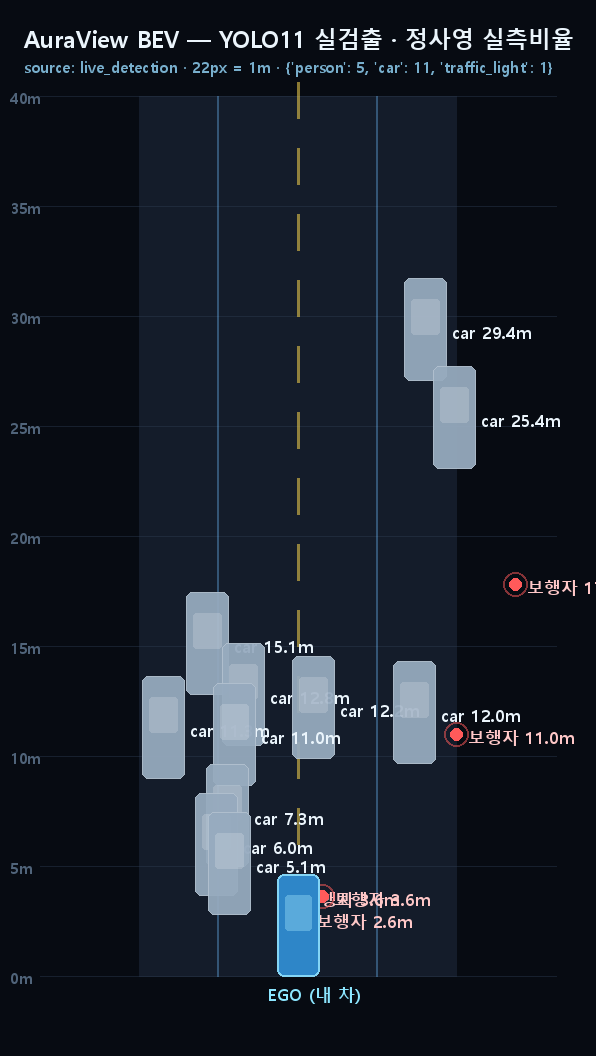
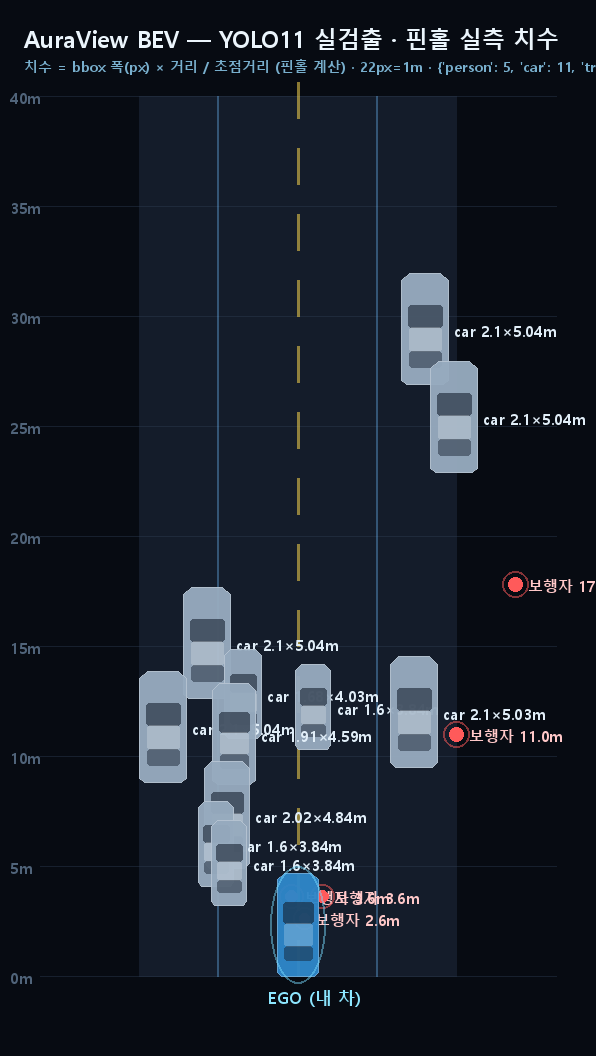
fix(bev): 실측 치수(핀홀 계산) + 차 실루엣 — '길쭉/고증' 지적 반영
사용자: 차가 너무 길쭉, 실측 계산 기반이냐, BEV답게.
→ 1) 실측 치수: 각 객체 폭 = bbox폭(px) × 거리 / 초점거리 (핀홀), 길이 = 폭×클래스비율
     서비스(detect_to_bev)가 width_m/length_m 반환, BEV 라벨에 '2.27×6.81m' 표기
   2) 차 실루엣: 알약 → 앞코+앞유리(어둡게)+지붕(밝게)+뒷유리 → 차로 읽힘
   3) 헤더에 측정식 명시 ('치수 = bbox폭 × 거리 / 초점거리')
이전 고정 클래스크기/단순 알약 → 측정 기반 + BEV 차 모양.

diff --git a/scripts/render_bev_shapes.py b/scripts/render_bev_shapes.py
@@ -45,19 +45,31 @@ for m in range(0, int(FWD), 3):
 d.line([(gx(-road_half), gy(0)), (gx(-road_half), gy(FWD))], fill=(110, 190, 255, 90), width=2)
 d.line([(gx(road_half), gy(0)), (gx(road_half), gy(FWD))], fill=(110, 190, 255, 90), width=2)
 
-SPEC = {
-    "car":        (1.9, 4.6, (150, 170, 190), "veh"),
-    "truck":      (2.6, 9.0, (110, 125, 145), "veh"),
-    "bus":        (2.6, 11.0, (200, 165, 80), "veh"),
-    "motorcycle": (0.8, 2.1, (255, 176, 32), "two"),
-    "bicycle":    (0.65, 1.8, (0, 224, 154), "two"),
-    "person":     (0.55, 0.55, (255, 90, 90), "ped"),
-}
+KIND = {"car": "veh", "truck": "veh", "bus": "veh",
+        "motorcycle": "two", "bicycle": "two", "person": "ped"}
+COLOR = {"car": (150, 170, 190), "truck": (110, 125, 145), "bus": (200, 165, 80),
+         "motorcycle": (255, 176, 32), "bicycle": (0, 224, 154), "person": (255, 90, 90)}
+
+def _car_silhouette(cx, cy, w, l, color):
+    """top-view 차 실루엣 — 앞코(위) 살짝 좁힘 + 앞/뒤 유리 + 지붕."""
+    nose = w * 0.16
+    body = [
+        (cx - w/2, cy - l/2 + nose), (cx - w/2 + nose, cy - l/2),       # 앞 좌
+        (cx + w/2 - nose, cy - l/2), (cx + w/2, cy - l/2 + nose),       # 앞 우
+        (cx + w/2, cy + l/2 - nose*0.6), (cx + w/2 - nose*0.6, cy + l/2),
+        (cx - w/2 + nose*0.6, cy + l/2), (cx - w/2, cy + l/2 - nose*0.6),
+    ]
+    d.polygon(body, fill=color + (245,), outline=(255, 255, 255, 70))
+    # 앞 유리(어둡게) + 지붕(밝게) + 뒤 유리
+    d.rounded_rectangle([cx - w*0.36, cy - l*0.22, cx + w*0.36, cy - l*0.02], radius=3, fill=(20, 30, 45, 150))
+    d.rounded_rectangle([cx - w*0.34, cy - l*0.02, cx + w*0.34, cy + l*0.20], radius=3, fill=(255, 255, 255, 55))
+    d.rounded_rectangle([cx - w*0.34, cy + l*0.20, cx + w*0.34, cy + l*0.34], radius=3, fill=(20, 30, 45, 120))
 
 def draw_obj(p):
     cx, cy = gx(p["lateral_m"]), gy(p["distance_m"])
-    w_m, l_m, color, kind = SPEC.get(p["cls"], (1.8, 4.0, (150, 160, 175), "veh"))
-    w, l = w_m * PXM, l_m * PXM
+    cls = p["cls"]; kind = KIND.get(cls, "veh"); color = COLOR.get(cls, (150, 160, 175))
+    w = p.get("width_m", 1.9) * PXM
+    l = p.get("length_m", 4.6) * PXM
     if kind == "ped":
         r = max(5, int(w / 2))
         d.ellipse([cx - r - 6, cy - r - 6, cx + r + 6, cy + r + 6], outline=color + (130,), width=2)
@@ -66,22 +78,19 @@ def draw_obj(p):
     elif kind == "two":
         d.rounded_rectangle([cx - w/2, cy - l/2, cx + w/2, cy + l/2], radius=3,
                             fill=color + (240,), outline=(255, 255, 255, 70), width=1)
-        d.ellipse([cx - 3, cy - l/2 - 3, cx + 3, cy - l/2 + 3], fill=(255, 255, 255, 160))
-        lbl = f"{'오토바이' if p['cls'] == 'motorcycle' else '자전거'} {p['distance_m']}m"
+        d.ellipse([cx - 3, cy - l/2 - 3, cx + 3, cy - l/2 + 3], fill=(255, 255, 255, 170))  # 헤드라이트(앞)
+        lbl = f"{'오토바이' if cls == 'motorcycle' else '자전거'} {p['distance_m']}m"
     else:
-        d.rounded_rectangle([cx - w/2, cy - l/2, cx + w/2, cy + l/2], radius=max(3, int(w * 0.16)),
-                            fill=color + (240,), outline=(255, 255, 255, 60), width=1)
-        d.rounded_rectangle([cx - w*0.34, cy - l*0.30, cx + w*0.34, cy + l*0.05], radius=3,
-                            fill=(255, 255, 255, 45))
-        lbl = f"{p['cls']} {p['distance_m']}m"
-    d.text((cx + w/2 + 6, cy - 9), lbl, font=F(17),
-           fill=(255, 200, 200) if kind == "ped" else (235, 245, 252))
+        _car_silhouette(cx, cy, w, l, color)
+        lbl = f"{cls} {p.get('width_m','?')}×{p.get('length_m','?')}m"
+    d.text((cx + w/2 + 6, cy - 9), lbl, font=F(15),
+           fill=(255, 200, 200) if kind == "ped" else (225, 238, 248))
 
 occ = next((p for p in b["placed"] if p["cls"] in ("truck", "bus")), None)
 if occ:
     ox, oy = gx(occ["lateral_m"]), gy(occ["distance_m"])
     fy2 = gy(min(FWD, occ["distance_m"] + 12))
-    spread = SPEC[occ["cls"]][0] * PXM
+    spread = occ.get("width_m", 2.5) * PXM
     d.polygon([(ox - spread, oy), (ox + spread, oy), (ox + spread * 2.4, fy2), (ox - spread * 2.4, fy2)],
               fill=(255, 70, 70, 50))
     d.text((ox - spread * 1.6, (oy + fy2) // 2), "사각지대(가려짐)", font=F(16), fill=(255, 150, 150))
@@ -90,14 +99,14 @@ for p in sorted(b["placed"], key=lambda z: -z["distance_m"]):
     draw_obj(p)
 
 ex = gx(0); ey = gy(2.3)
-ew, el = 1.9 * PXM, 4.6 * PXM
-d.rounded_rectangle([ex - ew/2, ey - el/2, ex + ew/2, ey + el/2], radius=7,
-                    fill=(46, 134, 200, 255), outline=(150, 230, 255, 210), width=2)
-d.rounded_rectangle([ex - ew*0.32, ey - el*0.30, ex + ew*0.32, ey + el*0.05], radius=3, fill=(170, 235, 255, 90))
-d.text((ex - 30, ey + el/2 + 6), "EGO (내 차)", font=F(17), fill=(140, 230, 255))
+_car_silhouette(ex, ey, 1.85 * PXM, 4.7 * PXM, (46, 134, 200))
+d.ellipse([ex - 1.85*PXM/2 - 7, ey - 4.7*PXM/2 - 7, ex + 1.85*PXM/2 + 7, ey + 4.7*PXM/2 + 7],
+          outline=(120, 220, 255, 120), width=2)
+d.text((ex - 30, ey + 4.7*PXM/2 + 8), "EGO (내 차)", font=F(17), fill=(140, 230, 255))
 
-d.text((24, 22), "AuraView BEV — YOLO11 실검출 · 정사영 실측비율", font=F(23), fill=(235, 245, 252))
-d.text((24, 56), f"source: live_detection · 22px = 1m · {b['summary']}", font=F(15), fill=(120, 175, 205))
+d.text((24, 22), "AuraView BEV — YOLO11 실검출 · 핀홀 실측 치수", font=F(23), fill=(235, 245, 252))
+d.text((24, 56), f"치수 = bbox 폭(px) × 거리 / 초점거리 (핀홀 계산) · 22px=1m · {b['summary']}",
+       font=F(14), fill=(120, 175, 205))
 
 im.save(os.path.join(ROOT, "docs", "captures", out_name))
 print(f"saved {out_name} · {len(b['placed'])} objects · {b['summary']}")

diff --git a/backend/app/services/yolo11_detector.py b/backend/app/services/yolo11_detector.py
@@ -131,14 +131,22 @@ def detect_to_bev(image_path: str, conf: float = 0.30, grid: int = 40,
             continue
         x, y, w, h = det["box"]
         cx = x + w / 2.0
-        foot_y = y + h            # bbox 하단 = 지면 접점
-        # 전방 거리: bbox 높이/클래스 실제 높이 기반 근사
+        # 전방 거리: bbox 높이/클래스 실제 높이 기반 근사 (핀홀)
         real_h = {"person": 1.7, "bicycle": 1.5, "motorcycle": 1.5,
                   "car": 1.5, "bus": 3.2, "truck": 3.5}.get(name, 1.6)
         dist = float(np.clip(real_h * focal / max(h, 1.0), 1.0, forward_m))
         # 횡방향(좌우): 광선 각도
         ang = (cx - iw / 2.0) / focal
         lateral = float(np.clip(dist * ang, -lateral_m, lateral_m))
+        # ★ 실측 치수: bbox 폭(px) → 실제 폭(m) = w_px/focal × 거리 (핀홀)
+        #   길이는 클래스 표준 종횡비로 폭에서 추정 (단일 프레임 깊이 한계)
+        meas_w = float(w / focal * dist)
+        clamp_w = {"person": (0.4, 0.8), "bicycle": (0.4, 0.8), "motorcycle": (0.5, 1.0),
+                   "car": (1.6, 2.1), "bus": (2.3, 2.7), "truck": (2.0, 2.7)}.get(name, (1.6, 2.1))
+        w_m = float(np.clip(meas_w, *clamp_w))
+        ratio = {"car": 2.4, "truck": 3.0, "bus": 4.3, "motorcycle": 2.5,
+                 "bicycle": 2.6, "person": 1.0}.get(name, 2.4)
+        l_m = round(w_m * ratio, 2)
         # 격자 좌표
         row = int(np.clip(grid - 1 - (dist / forward_m) * (grid - 1), 0, grid - 1))
         col = int(np.clip((lateral + lateral_m) / (2 * lateral_m) * (grid - 1), 0, grid - 1))
@@ -146,7 +154,8 @@ def detect_to_bev(image_path: str, conf: float = 0.30, grid: int = 40,
         _splat(g, row, col, sigma=1.4, mass=mass)
         cls_g[row, col] = 2 if name in ("person", "bicycle", "motorcycle") else 1
         placed.append({"cls": name, "row": row, "col": col,
-                       "distance_m": round(dist, 1), "lateral_m": round(lateral, 1)})
+                       "distance_m": round(dist, 1), "lateral_m": round(lateral, 1),
+                       "width_m": round(w_m, 2), "length_m": l_m})
 
     occ_mass = float(g.sum())
     return {
